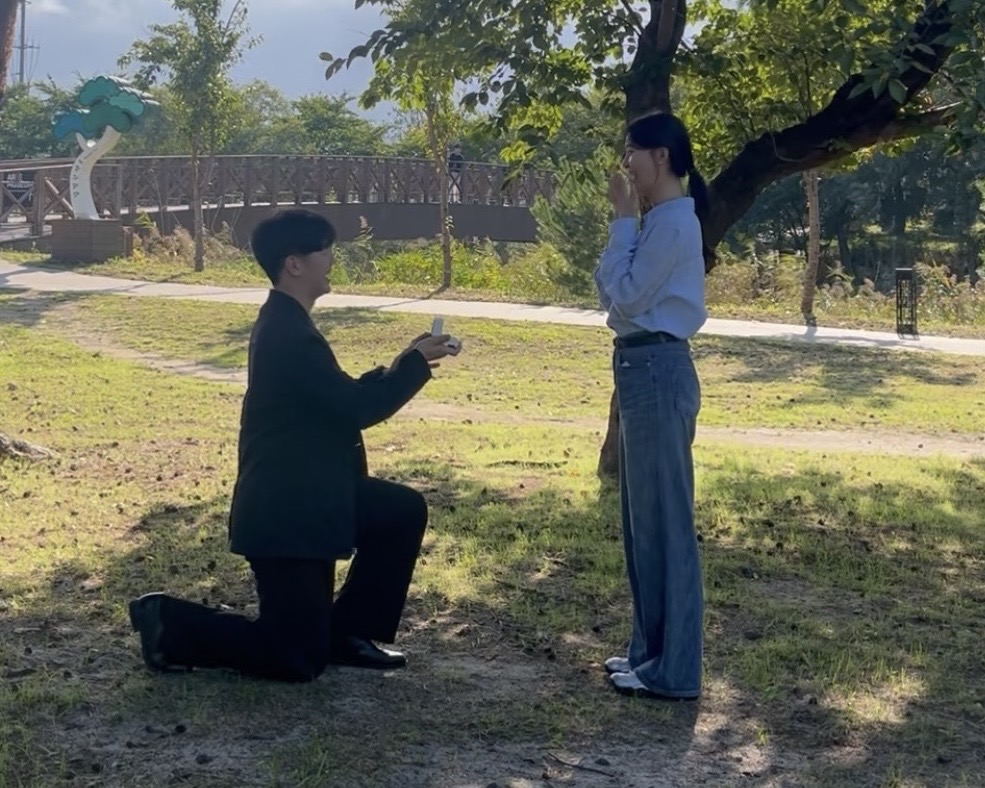
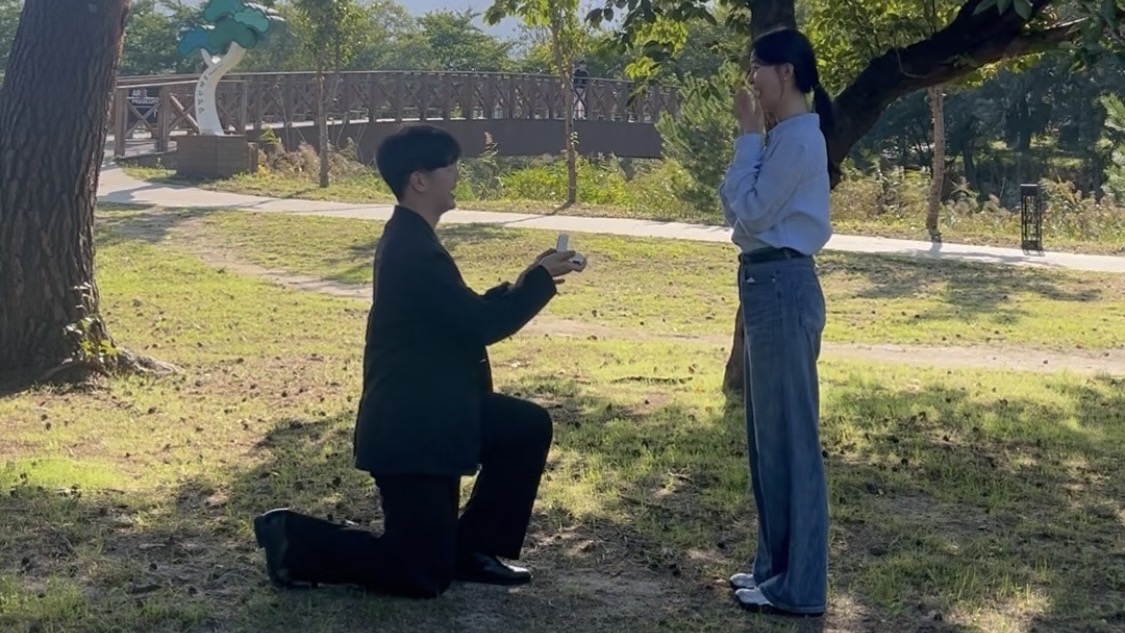
오픈 그래프 비율 수정

diff --git a/index.html b/index.html
@@ -22,8 +22,8 @@
   <meta property="og:title" content="한재 & 지선 결혼합니다">
   <meta property="og:description" content="2026년 6월 20일, 인천 메리빌리아 셀레스메리홀에서 뵙겠습니다.">
   <meta property="og:image" content="https://hanjae-jiseon-wedding.info/og-image.jpg">
-  <meta property="og:image:width" content="985">
-  <meta property="og:image:height" content="788">
+  <meta property="og:image:width" content="1125">
+  <meta property="og:image:height" content="633">
   <meta property="og:image:type" content="image/jpeg">
   <meta property="og:locale" content="ko_KR">
   <!-- Twitter Card -->
